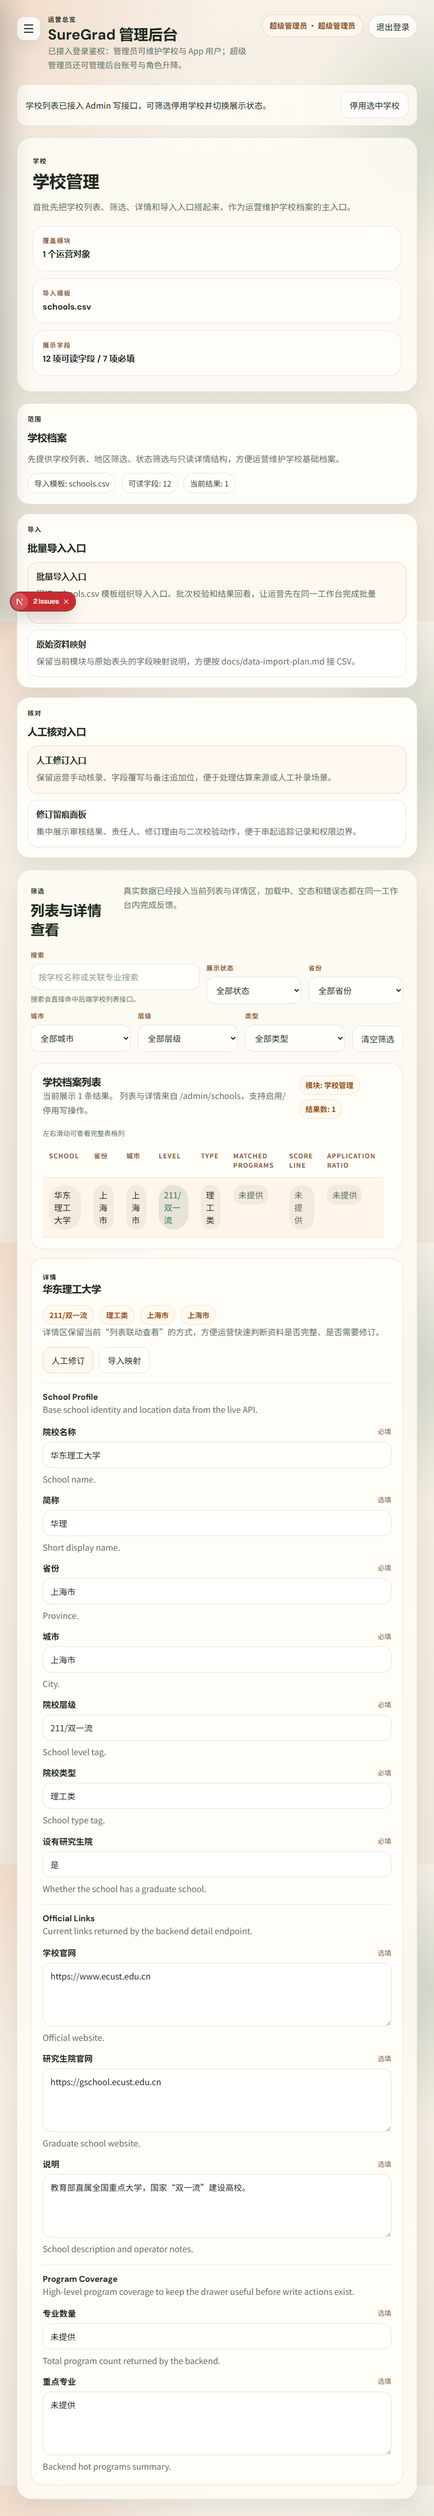
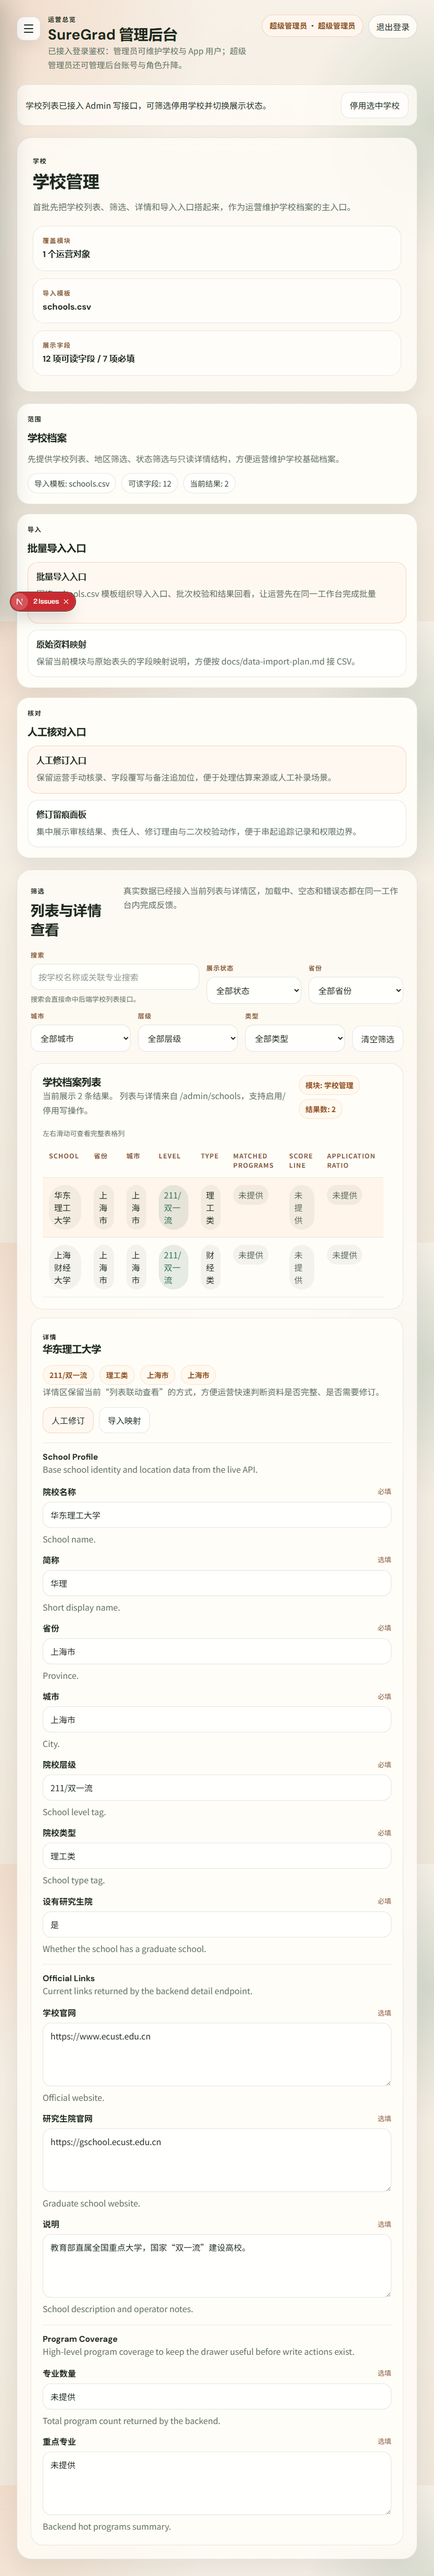
feat(data): 上财骨架批次入库并串联双校 seed 脚本
新增 db:import:sufe 与 db:seed:collected，视觉验收断言择校/学校页双校可见；同步 git 零署名规则与 start-here。

diff --git a/docs/start-here.md b/docs/start-here.md
@@ -179,13 +179,13 @@
 
 ## 10. 当前并行推进线（2026-05-23）
 
-1. **ecust 初试科目**：`subjects.csv` + `program_exam_subjects.csv`（2024：101/201/301/815）已入库；视觉见 `docs/visual-qa/2026-05-23-ecust-exam-subjects-round.md`
-2. **Admin 年度数据读采集**：`/yearly-data` 展示 ecust 招生计划、分数线、复试统计 CSV；首页统计含初试科目条数；见 `docs/visual-qa/2026-05-23-admin-yearly-collected-round.md`
-3. **移动端资料/专业详情**：已对接 Live API；专业详情仍缺报录比（待 `program_application_stats`）
-4. **Admin 院系 Live**：`GET /admin/departments` 只读；视觉见 `docs/visual-qa/2026-05-22-admin-departments-live-round.md`
-5. **视觉验收**：`pnpm verify:visual`；专业详情断言含 `815` / `初试科目`
-6. **备考资料演示**：`pnpm db:seed:demo`；Admin `/resources` Live API
-7. **待补 ecust CSV**：`program_application_stats.csv`、`program_reference_books.csv`（及 `books.csv`）
+1. **双校采集入库**：`ecust-cs-2024`（完整度较高）+ `sufe-finance-2024`（骨架）均已可 `pnpm db:seed:collected` 导入；移动端择校列表应出现华东理工 + 上海财经。
+2. **ecust 初试科目**：101/201/301/815 已入库；待补报录比、参考书 CSV。
+3. **Admin 年度数据读采集**：`/yearly-data` 展示 ecust 招生计划/分数线/复试；sufe 仅骨架分数线占位。
+4. **Admin / Mobile Live**：院系、学校、专业、资料等页已接 API；专业对比仍依赖登录用户对比池（空态为正常游客态）。
+5. **视觉验收**：择校 Tab 断言含双校名；Admin 学校页含双校。
+6. **备考资料演示**：`pnpm db:seed:demo` = collected + resources + admin。
+7. **待补模板**：ecust 的 `program_application_stats`、`program_reference_books`；sufe 的年度/科目/招生等全套模板。
 
 ## 11. 下一步工作建议
 

diff --git a/docs/visual-qa/2026-05-23-dual-school-import-round.md b/docs/visual-qa/2026-05-23-dual-school-import-round.md
@@ -1,0 +1,34 @@
+# 视觉验收记录 — 2026-05-23 双校入库（sufe + ecust）
+
+验收人：自动化脚本 + 主线程审图（Playwright / Flutter Web）
+
+## 结论
+
+| 范围 | 结果 | 证据 |
+|------|------|------|
+| Mobile 择校 Tab（双校列表） | **通过** | `docs/.visual-qa/mobile-guest-schools-tab.png` |
+| Admin 首页采集批次（双校缺口） | **通过** | `docs/.visual-qa/admin-home-desktop.png` |
+| Admin 学校管理（双校 Live） | **通过** | `docs/.visual-qa/admin-schools-desktop.png` |
+| 其他 Admin / Mobile 回归 | **通过** | `docs/.visual-qa/admin-*.png`、`mobile-*.png` |
+
+`pnpm db:import:sufe` 后 API 返回华东理工 + 上海财经；移动端择校与 Admin 学校页可见双校。
+
+## 数据 / 脚本
+
+- 新增 `config.import-sufe-finance-2024.yaml`
+- `pnpm db:import:sufe`、`pnpm db:seed:collected`、`db:seed:demo` 串联双批次
+
+## 复现命令
+
+```bash
+pnpm db:seed:collected
+pnpm dev:api
+pnpm dev:admin
+pnpm verify:visual
+```
+
+## 工程校验
+
+- `pnpm verify:api` — 通过
+- `pnpm verify:mobile` — 通过
+- `pnpm verify:admin` — 本地 Google Fonts 拉取偶发失败；无 Admin 源码改动，CI 为准

diff --git a/tools/data-import/README.md b/tools/data-import/README.md
@@ -305,8 +305,8 @@ python tools/data-import/validate_csv.py tools/data-import/samples/invalid-batch
 
 推荐按以下顺序继续：
 
-1. 第二批次骨架：`collected/sufe-finance-2024`（`config.collected-sufe-finance-2024.yaml` 可 dry-run）；入库前需补全分数线与缺失模板。
-2. 继续补齐 `ecust-cs-2024` / `sufe-finance-2024` 缺失模板并复核数字字段。
+1. 第二批次 **sufe-finance-2024** 已可 `pnpm db:import:sufe` 入库（骨架数据）；`pnpm db:seed:collected` 同时导入 ecust + sufe。
+2. 继续补齐 `ecust-cs-2024` / `sufe-finance-2024` 缺失模板并复核数字字段（sufe 分数线仍为占位）。
 2. 每个批次都要保留来源链接、核验时间和批次 README。
 3. 采集完成后至少跑一次 `run_import.ps1`，让 `import-report.json` 和 `import-report.md` 一起沉淀下来。
 4. 后续补正式导入器时，保持 `schema.sql` 作为字段与约束的事实来源。
